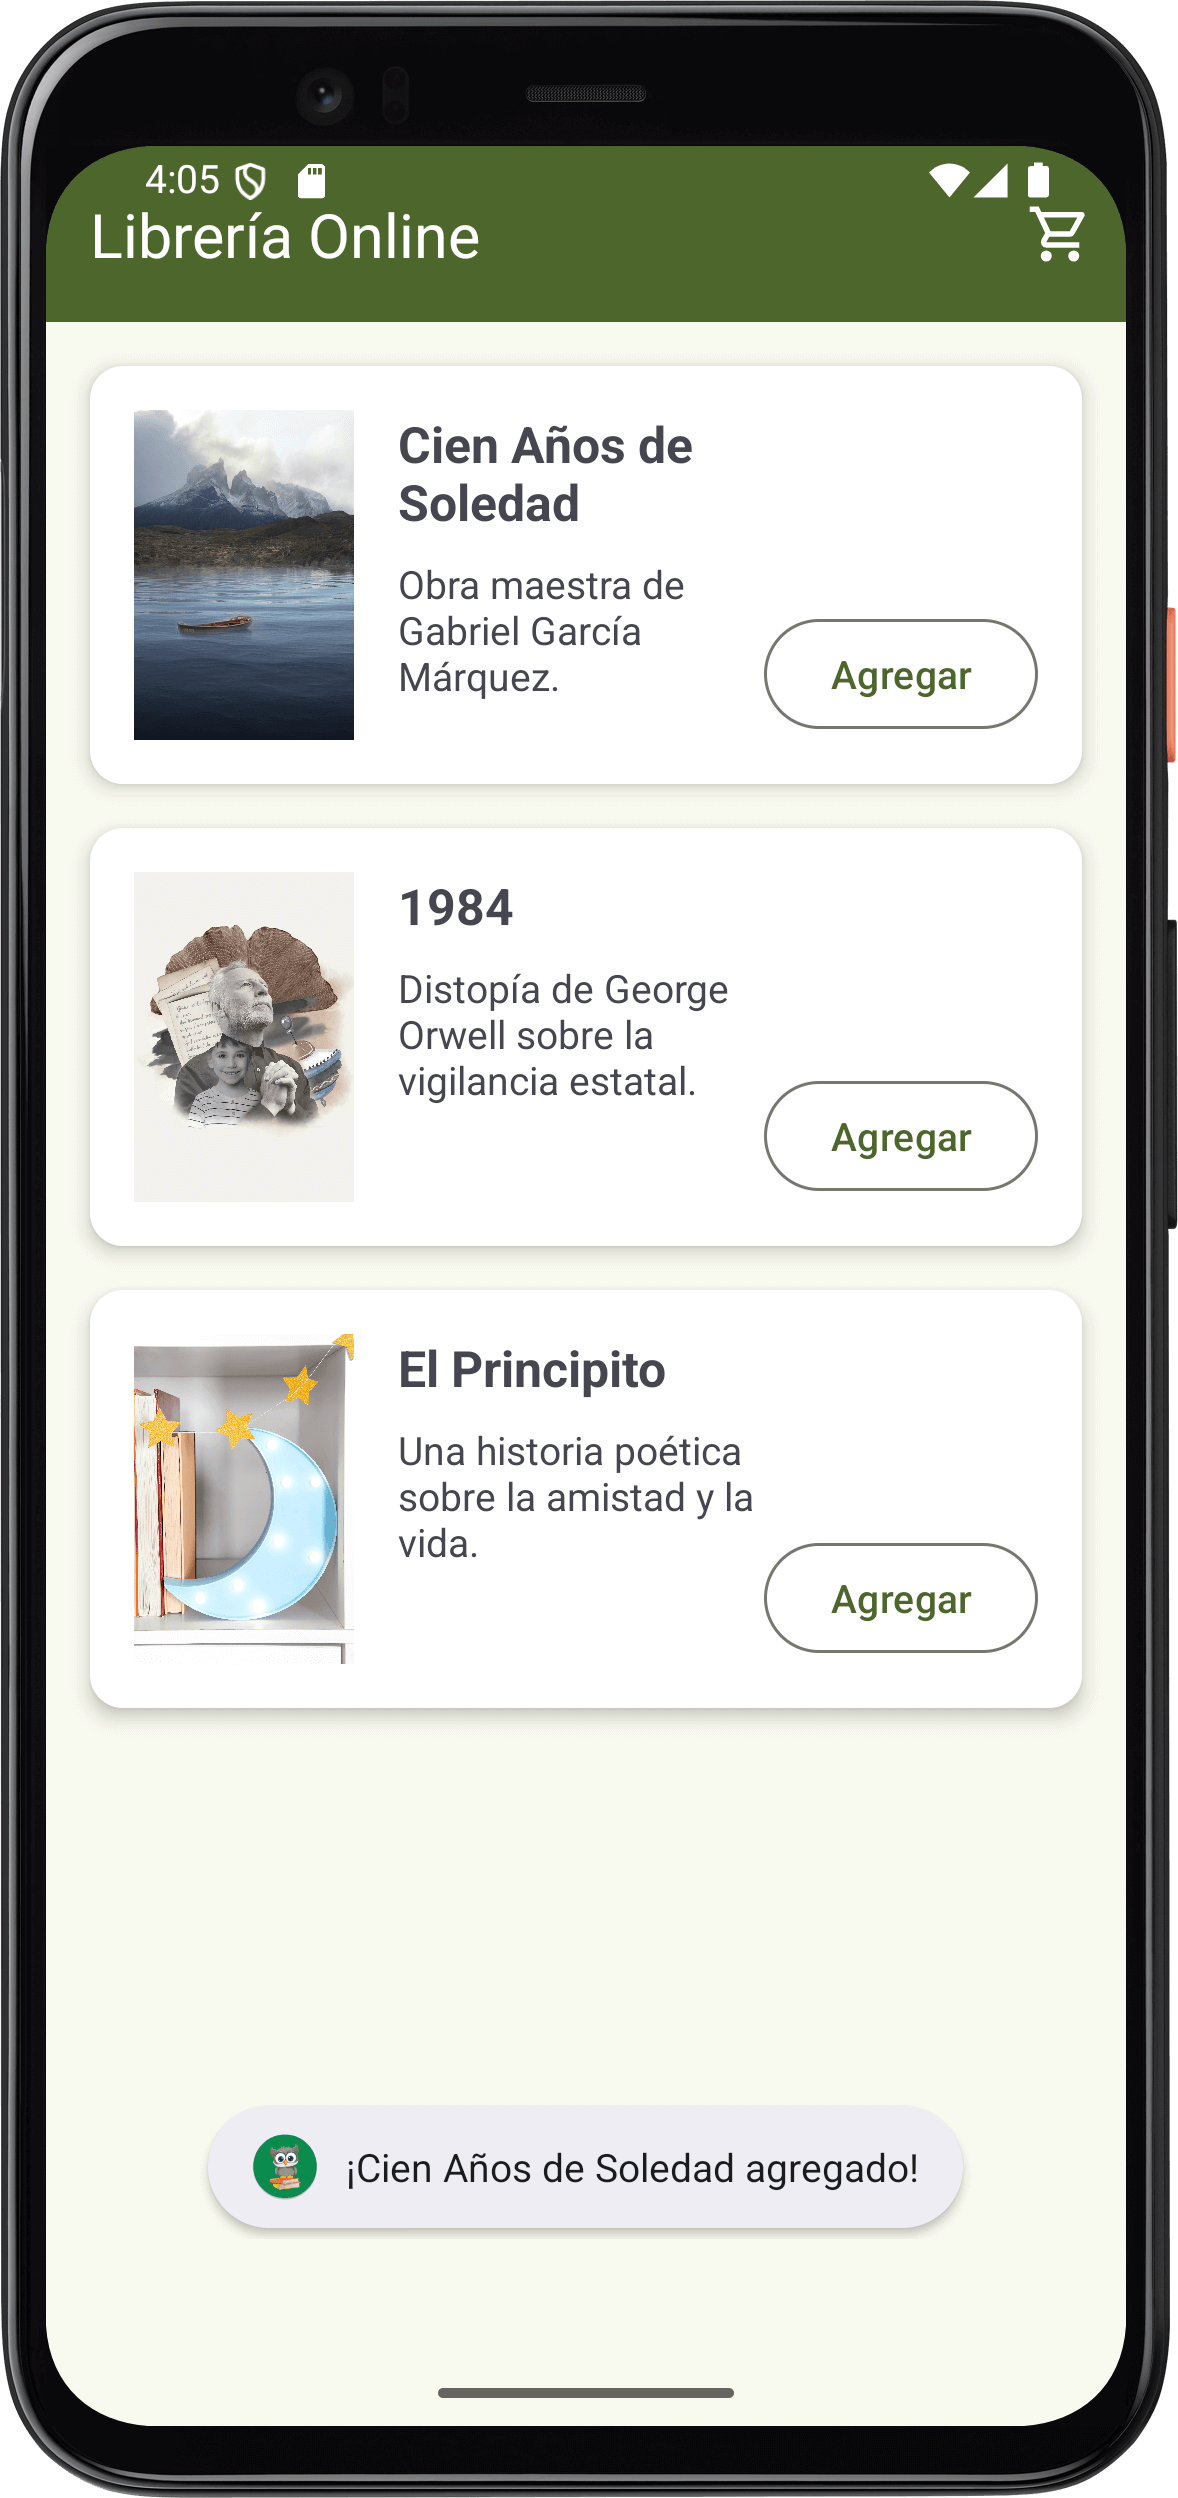
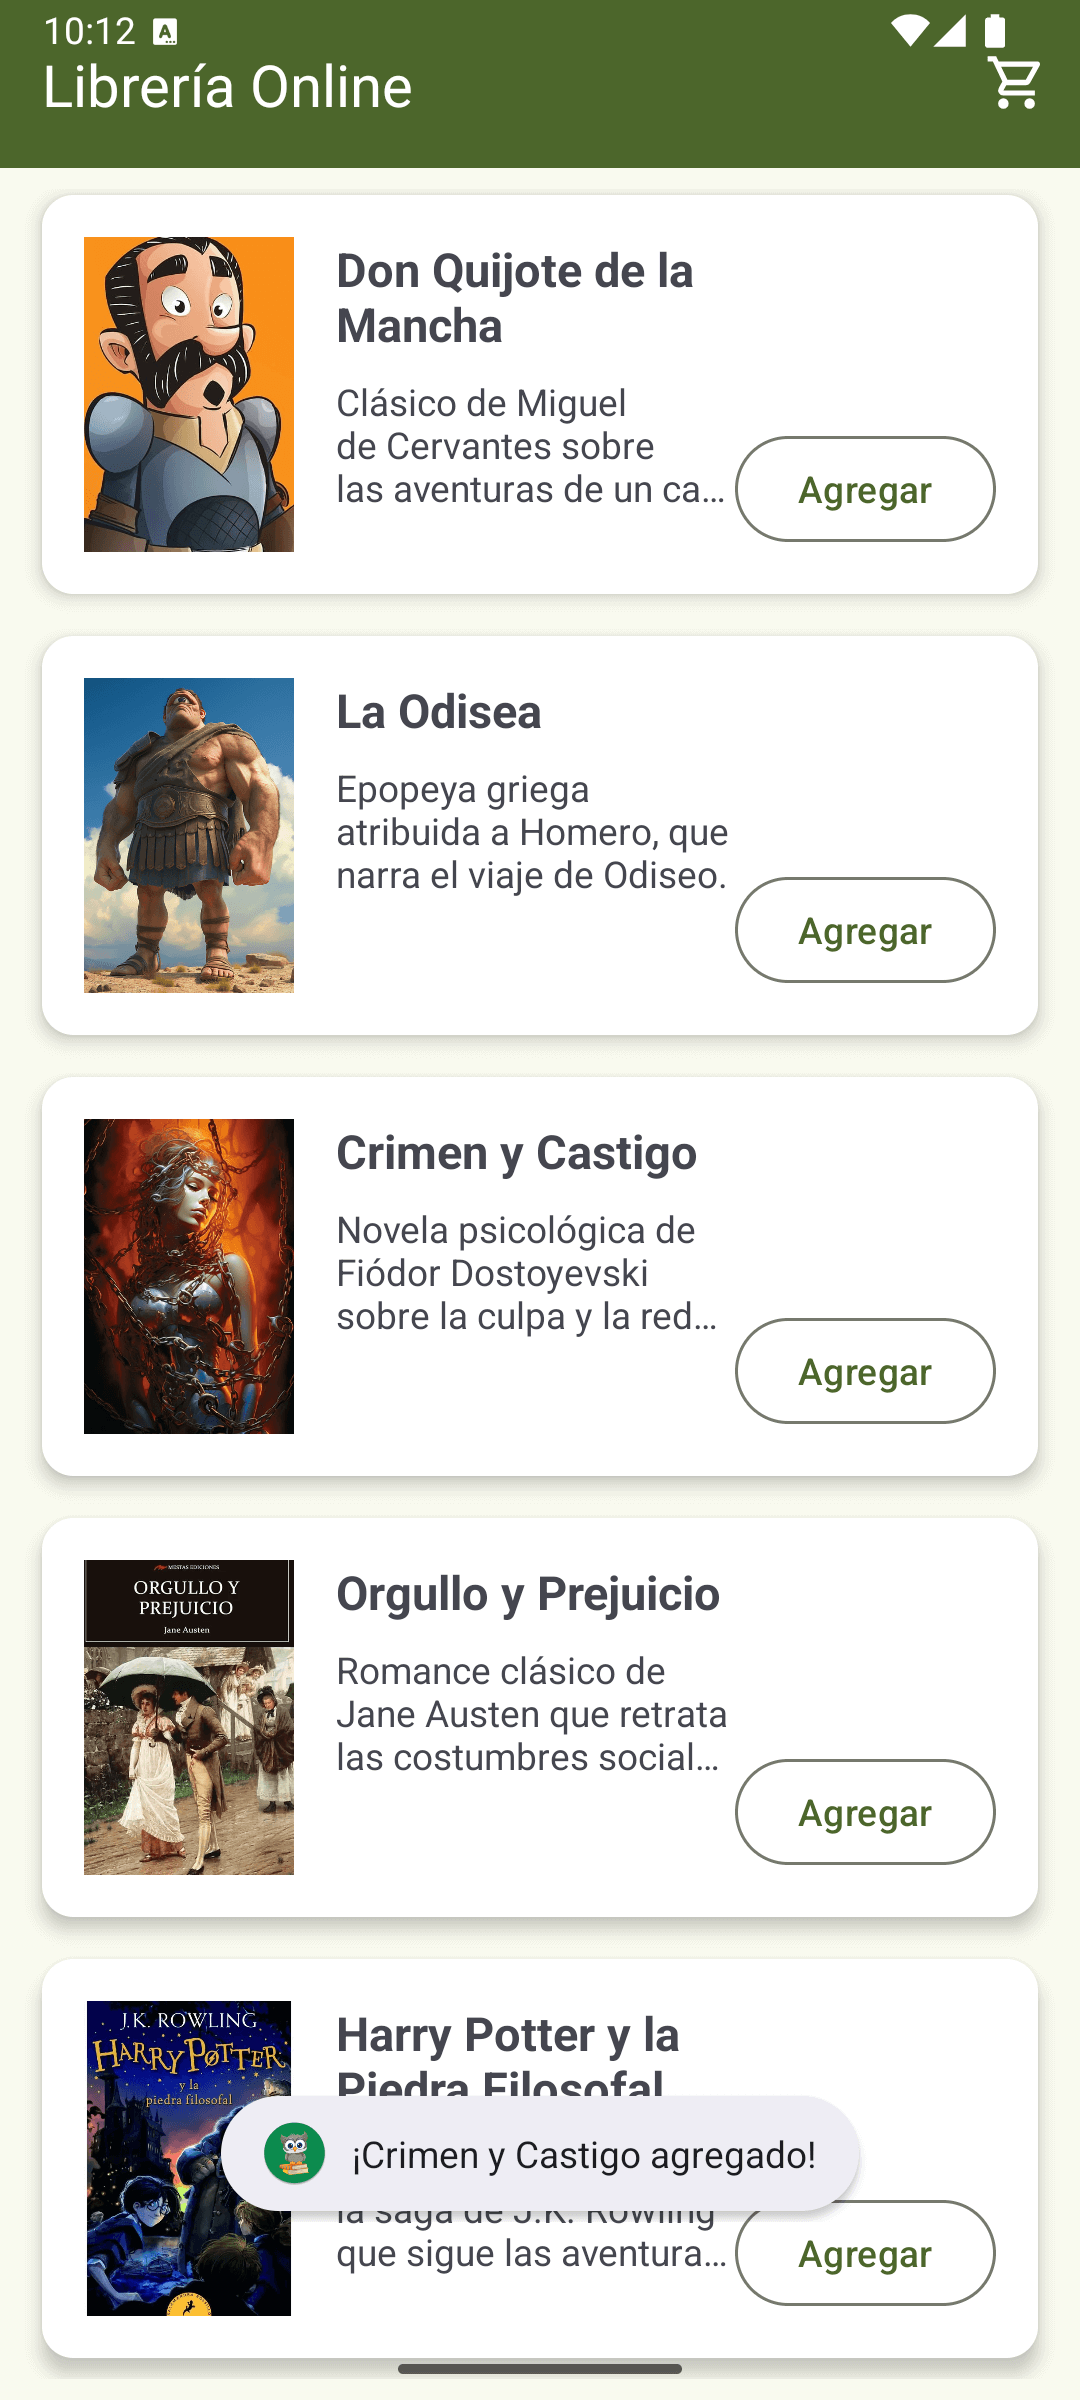
Actualizar los screenshot y README

diff --git a/README.md b/README.md
@@ -33,7 +33,6 @@ Esta aplicación es un prototipo de una librería online para Android. Permite a
 
 
 ### 🔄 Flujo de Interacción con la Aplicación
-Sigue estos pasos para explorar la librería online:
 
 1. **Pantalla Principal: Explora la Colección**
 
@@ -43,9 +42,9 @@ Sigue estos pasos para explorar la librería online:
 
 * Al iniciar la app, el usuario ve una **lista de libros** en tarjetas.
 * Cada tarjeta muestra:
-    * La **portada** del libro (ImageView).
-    * El título y una **breve descripción** (TextView).
-    * Un botón **"Agregar"** (MaterialButton).
+  * La **portada** del libro (ImageView).
+  * El título y una **breve descripción** (TextView).
+  * Un botón **"Agregar"** (MaterialButton).
 * **Interacción**: El usuario puede hacer clic en cualquier tarjeta para ver los **detalles completos** del libro.
 
 2. **Agregar un Libro al Carrito**
@@ -65,12 +64,12 @@ Sigue estos pasos para explorar la librería online:
 
 * Al hacer clic en una tarjeta de libro, el usuario es llevado a la **pantalla de detalles**.
 * Esta pantalla muestra:
-    * Una imagen grande de la **portada**.
-    * El título y la descripción completa del libro.
-    * Un botón grande **"COMPRAR AHORA"**.
+  * Una imagen grande de la **portada**.
+  * El título y la descripción completa del libro.
+  * Un botón grande **"COMPRAR AHORA"**.
 * Interacción:
-    * El usuario puede agregar el libro al carrito desde aquí también. (Por implementar)
-    * Para volver a la lista, hace clic en la **flecha** "←" del emulador.
+  * El usuario puede agregar el libro al carrito desde aquí también. (Por implementar)
+  * Para volver a la lista, hace clic en la **flecha** "←" del emulador.
 
 4. **Acceder al Carrito de Compras**
 <p float="left">
@@ -83,17 +82,18 @@ Sigue estos pasos para explorar la librería online:
 5. **Gestionar el Carrito**
 <p float="left">
   <img src="screenshots/cart_screen.png" alt="Pantalla de Carrito" width="200"/>
+  <img src="screenshots/delete_book_screen.png" alt="Pantalla de Carrito" width="200"/>
 </p>
 
 * El usuario ve una **lista de todos los libros agregados**.
 * Para cada libro, se muestra:
-    * Su portada, título y cantidad.
-    * El **subtotal** calculado (precio * cantidad).
-    * Un botón **"Quitar"**.
+  * Su portada, título y cantidad.
+  * El **subtotal** calculado (precio * cantidad).
+  * Un botón **"Quitar"**.
 * Interacción:
-    * Al hacer clic en **"Quitar"**, se reduce la cantidad del libro. Si llega a 0, el libro desaparece de la lista.
-    * En la parte inferior, se muestra un **resumen** con el total de artículos y el precio total.
-    * Un botón **"FINALIZAR COMPRA"** (Muestra un mensaje de confirmación y elimina el listado de libros del carrito).
+  * Al hacer clic en **"Quitar"**, se reduce la cantidad del libro. Si llega a 0, el libro desaparece de la lista.
+  * En la parte inferior, se muestra un **resumen** con el total de artículos y el precio total.
+  * Un botón **"FINALIZAR COMPRA"** (Muestra un mensaje de confirmación y elimina el listado de libros del carrito).
 * Para volver al inicio, el usuario hace clic en la flecha "←".
 
 ## Decisiones de Desarrollo
